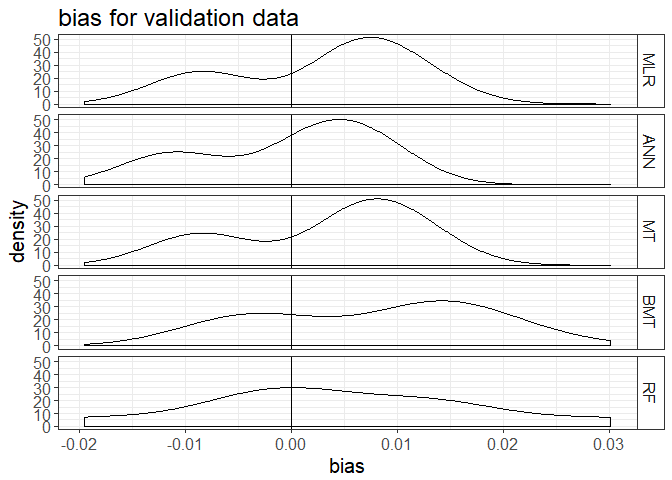
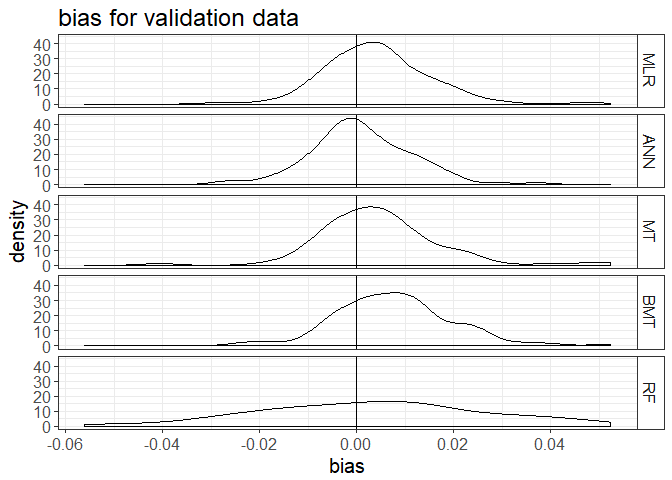
Final git push before CRAN submit

diff --git a/README.md b/README.md
@@ -53,14 +53,14 @@ plot_heatmap(result1)
 
 ![](README-plot%20examples-3.png)
 
-Here is an example on using the compare\_methods(). The core idea is to compare different regression methods and select the best model for climate reconstruction. Users should spend some time to understand what are the tunning parameters of specific method. Basically, methods could be run with default parameters, but usually it turns out that optimization of parameters gives better results. To optimize parameters, users might want to explore the caret package.
+Here is an example of using the compare\_methods(). The core idea is to compare different regression methods and select the best model for climate reconstruction. Users should spend some time to understand what are the tunning parameters of specific method. Basically, methods could be run with default parameters, but usually it turns out that optimization of parameters gives better results. To optimize parameters, users might want to explore the caret package.
 
 ``` r
 ## basic example with default parameter values
 library(dendroTools)
 data(example_dataset_1)
 experiment_1 <- compare_methods(formula = MVA~.,
-dataset = example_dataset_1, k = 3, repeats = 10)
+dataset = example_dataset_1, k = 3, repeats = 100)
 ```
 
 To see the outputs, use the following code.
@@ -68,103 +68,103 @@ To see the outputs, use the following code.
 ``` r
 experiment_1[[1]] # See a data frame results
 #>    Measure Period MLR_M MLR_SD MLR_AR MLR_S1 ANN_M ANN_SD ANN_AR ANN_S1
-#> 5        r    cal 0.675  0.005    4.0    0.0 0.676  0.005    3.3    0.0
-#> 6        r    val 0.646  0.024    1.4    0.6 0.646  0.023    2.1    0.4
-#> 9     RMSE    cal 0.389  0.002    3.6    0.0 0.389  0.002    3.5    0.0
-#> 10    RMSE    val 0.417  0.009    1.5    0.5 0.417  0.009    1.9    0.5
-#> 11    RSSE    cal 0.734  0.004    3.5    0.0 0.734  0.004    3.8    0.0
-#> 12    RSSE    val 0.807  0.023    1.4    0.6 0.806  0.024    2.0    0.4
-#> 3        d    cal 0.781  0.005    2.8    0.0 0.773  0.005    5.0    0.0
-#> 4        d    val 0.742  0.017    1.0    1.0 0.733  0.018    3.0    0.0
-#> 7       RE    cal 0.481  0.016    3.7    0.0 0.481  0.016    3.8    0.0
-#> 8       RE    val 0.374  0.038    1.7    0.4 0.375  0.039    1.7    0.6
-#> 1       CE    cal 0.458  0.006    3.8    0.0 0.459  0.006    3.6    0.0
-#> 2       CE    val 0.337  0.045    1.7    0.4 0.340  0.045    1.7    0.6
+#> 5        r    cal 0.676  0.006   3.88   0.00 0.677  0.006   3.25   0.00
+#> 6        r    val 0.642  0.030   1.48   0.55 0.642  0.030   2.13   0.45
+#> 9     RMSE    cal 0.389  0.003   3.61   0.00 0.388  0.003   3.58   0.00
+#> 10    RMSE    val 0.419  0.014   1.49   0.54 0.419  0.014   2.16   0.45
+#> 11    RSSE    cal 0.734  0.005   3.62   0.00 0.734  0.005   3.68   0.00
+#> 12    RSSE    val 0.813  0.044   1.54   0.50 0.813  0.044   2.18   0.46
+#> 3        d    cal 0.782  0.006   2.66   0.00 0.775  0.006   4.95   0.00
+#> 4        d    val 0.740  0.022   1.04   0.96 0.732  0.022   3.10   0.03
+#> 7       RE    cal 0.490  0.029   3.67   0.00 0.491  0.029   3.66   0.00
+#> 8       RE    val 0.372  0.070   1.63   0.46 0.372  0.070   2.09   0.50
+#> 1       CE    cal 0.459  0.008   3.66   0.00 0.460  0.008   3.64   0.00
+#> 2       CE    val 0.326  0.084   1.61   0.47 0.326  0.085   2.12   0.48
 #>     MT_M MT_SD MT_AR MT_S1 BMT_M BMT_SD BMT_AR BMT_S1  RF_M RF_SD RF_AR
-#> 5  0.676 0.007   3.9   0.0 0.686  0.006    2.0      0 0.959 0.002     1
-#> 6  0.638 0.030   1.9   0.5 0.638  0.024    3.8      0 0.543 0.044     5
-#> 9  0.389 0.002   3.5   0.0 0.384  0.003    2.0      0 0.173 0.004     1
-#> 10 0.421 0.014   2.0   0.4 0.421  0.009    3.8      0 0.462 0.019     5
-#> 11 0.734 0.005   3.5   0.0 0.725  0.005    2.0      0 0.326 0.009     1
-#> 12 0.813 0.027   2.0   0.4 0.813  0.023    3.8      0 0.891 0.029     5
-#> 3  0.781 0.005   2.7   0.0 0.782  0.006    2.7      0 0.966 0.002     1
-#> 4  0.737 0.023   1.6   0.8 0.730  0.019    3.5      0 0.682 0.031     5
-#> 7  0.482 0.014   3.7   0.0 0.494  0.013    2.0      0 0.898 0.005     1
-#> 8  0.364 0.047   2.2   0.3 0.365  0.038    3.6      0 0.239 0.060     5
-#> 1  0.459 0.007   3.8   0.0 0.472  0.008    2.0      0 0.894 0.006     1
-#> 2  0.328 0.049   2.2   0.3 0.329  0.043    3.6      0 0.196 0.054     5
+#> 5  0.676 0.006  3.98  0.00 0.687  0.007   2.01   0.00 0.959 0.003  1.00
+#> 6  0.636 0.041  1.84  0.51 0.631  0.035   3.71   0.01 0.534 0.057  4.98
+#> 9  0.389 0.003  3.77  0.00 0.384  0.003   2.01   0.00 0.171 0.005  1.00
+#> 10 0.421 0.018  1.86  0.49 0.424  0.015   3.63   0.02 0.469 0.023  4.99
+#> 11 0.734 0.006  3.78  0.00 0.725  0.006   2.01   0.00 0.323 0.009  1.00
+#> 12 0.818 0.047  1.90  0.45 0.822  0.044   3.56   0.04 0.912 0.058  4.98
+#> 3  0.782 0.006  2.80  0.00 0.784  0.007   2.71   0.00 0.967 0.002  1.00
+#> 4  0.735 0.030  1.50  0.82 0.727  0.025   3.55   0.01 0.673 0.038  4.95
+#> 7  0.490 0.029  3.82  0.00 0.503  0.029   2.01   0.00 0.901 0.008  1.00
+#> 8  0.364 0.075  1.98  0.42 0.358  0.071   3.49   0.04 0.208 0.101  4.95
+#> 1  0.459 0.008  3.81  0.00 0.473  0.009   2.01   0.00 0.895 0.006  1.00
+#> 2  0.318 0.089  1.96  0.43 0.311  0.085   3.52   0.04 0.150 0.124  4.95
 #>    RF_S1
-#> 5      1
-#> 6      0
-#> 9      1
-#> 10     0
-#> 11     1
-#> 12     0
-#> 3      1
-#> 4      0
-#> 7      1
-#> 8      0
-#> 1      1
-#> 2      0
+#> 5   1.00
+#> 6   0.00
+#> 9   1.00
+#> 10  0.00
+#> 11  1.00
+#> 12  0.00
+#> 3   1.00
+#> 4   0.00
+#> 7   1.00
+#> 8   0.01
+#> 1   1.00
+#> 2   0.01
 experiment_1[[2]] # See a ggplot of mean bias for validation data
 ```
 
 ![](README-example%202a-1.png)
 
 ``` r
-## basic example with tunned parameter values
+## An example with tunned parameter values
 library(dendroTools)
 data(example_dataset_1)
 experiment_2 <- compare_methods(formula = MVA~.,
-dataset = example_dataset_1, k = 3, repeats = 50, neurons = 1,
+dataset = example_dataset_1, k = 3, repeats = 100, neurons = 1,
 MT_M = 4, MT_N = FALSE, MT_U = FALSE, MT_R = FALSE, BMT_P = 100,
 BMT_I = 100, BMT_M = 4, BMT_N = FALSE, BMT_U = FALSE, BMT_R = FALSE,
 RF_P = 100, RF_I = 100, RF_depth= 0, multiply = 5)
 ```
 
-Aain, to see the outputs, use the following code.
+Aagin, to see the outputs, use the following code.
 
 ``` r
 experiment_2[[1]] # See a data frame results
 #>    Measure Period MLR_M MLR_SD MLR_AR MLR_S1 ANN_M ANN_SD ANN_AR ANN_S1
-#> 5        r    cal 0.677  0.006   3.94   0.00 0.678  0.006   3.16   0.00
-#> 6        r    val 0.638  0.037   1.48   0.52 0.638  0.036   2.18   0.46
-#> 9     RMSE    cal 0.388  0.003   3.64   0.00 0.388  0.003   3.48   0.00
-#> 10    RMSE    val 0.422  0.015   1.50   0.50 0.423  0.015   2.08   0.50
-#> 11    RSSE    cal 0.733  0.005   3.64   0.00 0.732  0.006   3.58   0.00
-#> 12    RSSE    val 0.822  0.049   1.56   0.46 0.822  0.050   2.08   0.50
-#> 3        d    cal 0.783  0.006   2.72   0.00 0.776  0.006   4.94   0.00
-#> 4        d    val 0.735  0.025   1.06   0.94 0.727  0.025   3.00   0.06
-#> 7       RE    cal 0.491  0.030   3.70   0.00 0.492  0.030   3.56   0.00
-#> 8       RE    val 0.356  0.080   1.60   0.44 0.357  0.082   2.06   0.52
-#> 1       CE    cal 0.461  0.008   3.74   0.00 0.462  0.008   3.48   0.00
-#> 2       CE    val 0.309  0.099   1.60   0.44 0.309  0.101   2.06   0.52
+#> 5        r    cal 0.676  0.006   3.88   0.00 0.677  0.006   3.25   0.00
+#> 6        r    val 0.642  0.030   1.48   0.55 0.642  0.030   2.13   0.45
+#> 9     RMSE    cal 0.389  0.003   3.61   0.00 0.388  0.003   3.58   0.00
+#> 10    RMSE    val 0.419  0.014   1.49   0.54 0.419  0.014   2.16   0.45
+#> 11    RSSE    cal 0.734  0.005   3.62   0.00 0.734  0.005   3.68   0.00
+#> 12    RSSE    val 0.813  0.044   1.54   0.50 0.813  0.044   2.18   0.46
+#> 3        d    cal 0.782  0.006   2.66   0.00 0.775  0.006   4.95   0.00
+#> 4        d    val 0.740  0.022   1.04   0.96 0.732  0.022   3.10   0.03
+#> 7       RE    cal 0.490  0.029   3.67   0.00 0.491  0.029   3.66   0.00
+#> 8       RE    val 0.372  0.070   1.63   0.46 0.372  0.070   2.09   0.50
+#> 1       CE    cal 0.459  0.008   3.66   0.00 0.460  0.008   3.64   0.00
+#> 2       CE    val 0.326  0.084   1.61   0.47 0.326  0.085   2.12   0.48
 #>     MT_M MT_SD MT_AR MT_S1 BMT_M BMT_SD BMT_AR BMT_S1  RF_M RF_SD RF_AR
-#> 5  0.676 0.006  4.14  0.00 0.689  0.007   2.00   0.00 0.960 0.003  1.00
-#> 6  0.628 0.049  1.98  0.50 0.626  0.042   3.64   0.02 0.532 0.060  4.96
-#> 9  0.388 0.003  3.94  0.00 0.383  0.004   2.00   0.00 0.170 0.005  1.00
-#> 10 0.427 0.020  2.02  0.46 0.428  0.016   3.62   0.02 0.472 0.023  4.98
-#> 11 0.733 0.005  3.94  0.00 0.723  0.006   2.00   0.00 0.322 0.008  1.00
-#> 12 0.829 0.053  2.08  0.40 0.831  0.049   3.54   0.04 0.921 0.061  4.98
-#> 3  0.782 0.006  2.96  0.00 0.785  0.006   2.62   0.00 0.967 0.002  1.00
-#> 4  0.727 0.034  1.74  0.74 0.721  0.028   3.48   0.00 0.668 0.039  4.94
-#> 7  0.490 0.030  3.98  0.00 0.505  0.029   2.00   0.00 0.902 0.008  1.00
-#> 8  0.345 0.087  2.10  0.40 0.342  0.081   3.50   0.04 0.189 0.114  4.98
-#> 1  0.460 0.008  4.02  0.00 0.475  0.009   2.00   0.00 0.896 0.005  1.00
-#> 2  0.297 0.103  2.10  0.40 0.294  0.098   3.50   0.04 0.129 0.142  4.98
+#> 5  0.676 0.006  3.98  0.00 0.687  0.007   2.01   0.00 0.959 0.003  1.00
+#> 6  0.636 0.041  1.84  0.51 0.631  0.035   3.71   0.01 0.534 0.057  4.98
+#> 9  0.389 0.003  3.77  0.00 0.384  0.003   2.01   0.00 0.171 0.005  1.00
+#> 10 0.421 0.018  1.86  0.49 0.424  0.015   3.63   0.02 0.469 0.023  4.99
+#> 11 0.734 0.006  3.78  0.00 0.725  0.006   2.01   0.00 0.323 0.009  1.00
+#> 12 0.818 0.047  1.90  0.45 0.822  0.044   3.56   0.04 0.912 0.058  4.98
+#> 3  0.782 0.006  2.80  0.00 0.784  0.007   2.71   0.00 0.967 0.002  1.00
+#> 4  0.735 0.030  1.50  0.82 0.727  0.025   3.55   0.01 0.673 0.038  4.95
+#> 7  0.490 0.029  3.82  0.00 0.503  0.029   2.01   0.00 0.901 0.008  1.00
+#> 8  0.364 0.075  1.98  0.42 0.358  0.071   3.49   0.04 0.208 0.101  4.95
+#> 1  0.459 0.008  3.81  0.00 0.473  0.009   2.01   0.00 0.895 0.006  1.00
+#> 2  0.318 0.089  1.96  0.43 0.311  0.085   3.52   0.04 0.150 0.124  4.95
 #>    RF_S1
-#> 5      1
-#> 6      0
-#> 9      1
-#> 10     0
-#> 11     1
-#> 12     0
-#> 3      1
-#> 4      0
-#> 7      1
-#> 8      0
-#> 1      1
-#> 2      0
+#> 5   1.00
+#> 6   0.00
+#> 9   1.00
+#> 10  0.00
+#> 11  1.00
+#> 12  0.00
+#> 3   1.00
+#> 4   0.00
+#> 7   1.00
+#> 8   0.01
+#> 1   1.00
+#> 2   0.01
 experiment_2[[2]] # See a ggplot of mean bias for validation data
 ```
 

diff --git a/cran-comments.md b/cran-comments.md
@@ -1,16 +1,17 @@
 ##  First Submission
 
-This is a first submission of the dendroTools package. Previously, package was called dendroExtra, but authors decided to publish the new version under new name dendroTools. There are several reasons for that which are explained in the NEWS file. However, we kindly ask CRAN for understanding and to approve the change of the name of this package. Here, we ask CRAN, when dendroTools will be on CRAN, to remove the dendroExtra package from CRAN. 
+This is a first submission of the dendroTools package. Previously, package was called dendroExtra, but authors decided to publish the new version under new name dendroTools. There are several reasons for that:  1) there is already a package called dendroextras, which is very close to dendroExtra and 2) the future development of the package will be focused on the implementation of new tools, so the new name
+is definately more appropriate. 
 
+We kindly ask CRAN for understanding and to approve the change of the name of this package. Here, we ask CRAN, when dendroTools will be on CRAN, to remove the dendroExtra package from CRAN. 
 
 ## Test environments
 * local OS X install, R 3.4.0
-* Ubuntu precise (12.04.5 LTS) (on travis-ci), R version 3.4.1 (2017-06-30)
-* win-builder (R Under development (unstable) (2017-08-03 r73028))
+* Ubuntu precise (Ubuntu 14.04.5 LTS) (on travis-ci), R version 3.4.1 (2017-01-27)
+* win-builder R Under development (unstable) (2017-09-12 r73242)
 
 ## R CMD check results
 There were no ERRORs, WARNINGs or NOTEs
-
 
 ## Downstream dependencies
 We have also run R CMD check on downstream dependencies of dendroTools

diff --git a/NEWS.md b/NEWS.md
@@ -1,13 +1,9 @@
 # dendroTools 0.0.3.
 
 * Package was previously called dendroExtra, but authors decided to rename it and submit it as a new package
-* Reasons for that are: 1) there is already a package called dendroextras, which is very close to dendroExtra,
-* 2) the future development of the package will be focused on the implementation of new tools, so the new name
-* is definately more appropriate.
 
 * Changes in comparison to the package dendroExtra 0.0.2
 * new dataset is added that is used to test new function compare_methods()
 * two new functions are added: compare_methods() and calculate_measures()
 * required packages were added to the Description: dcv (>= 0.1.1), MLmetrics (>= 1.1.1), RWeka (>= 0.4-34),
         dplyr (>= 0.7.0), reshape (>= 0.8.6)
-
